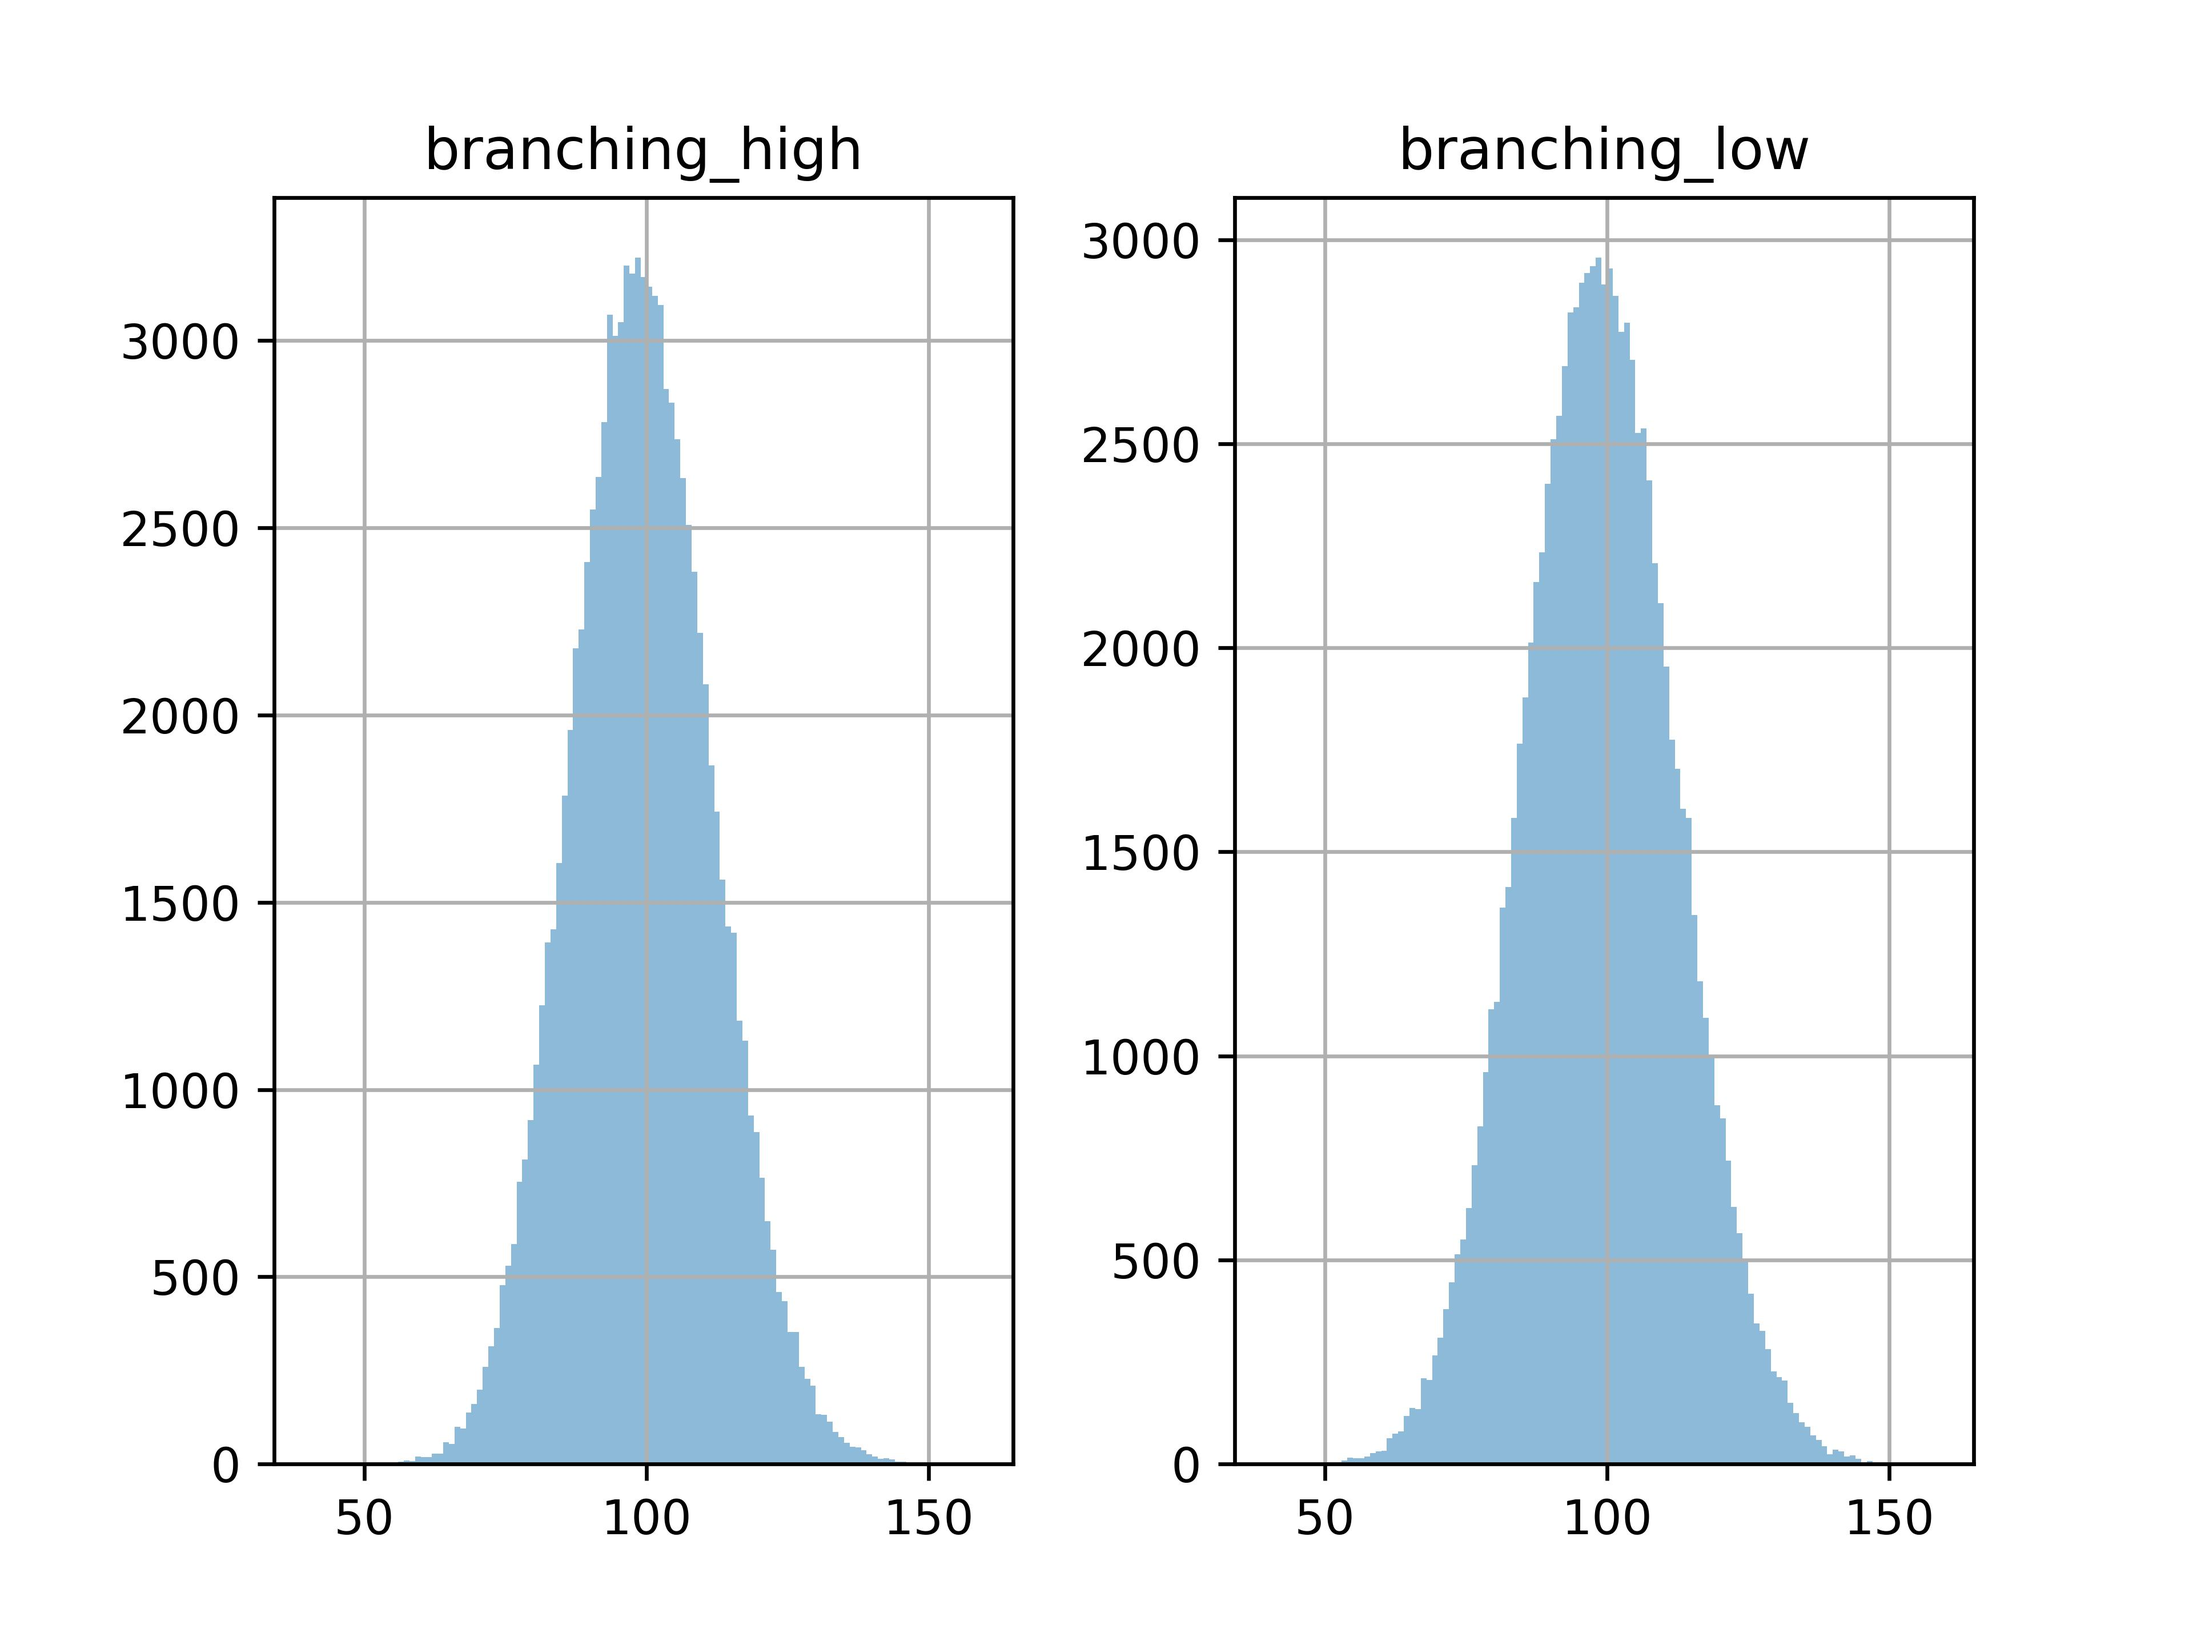
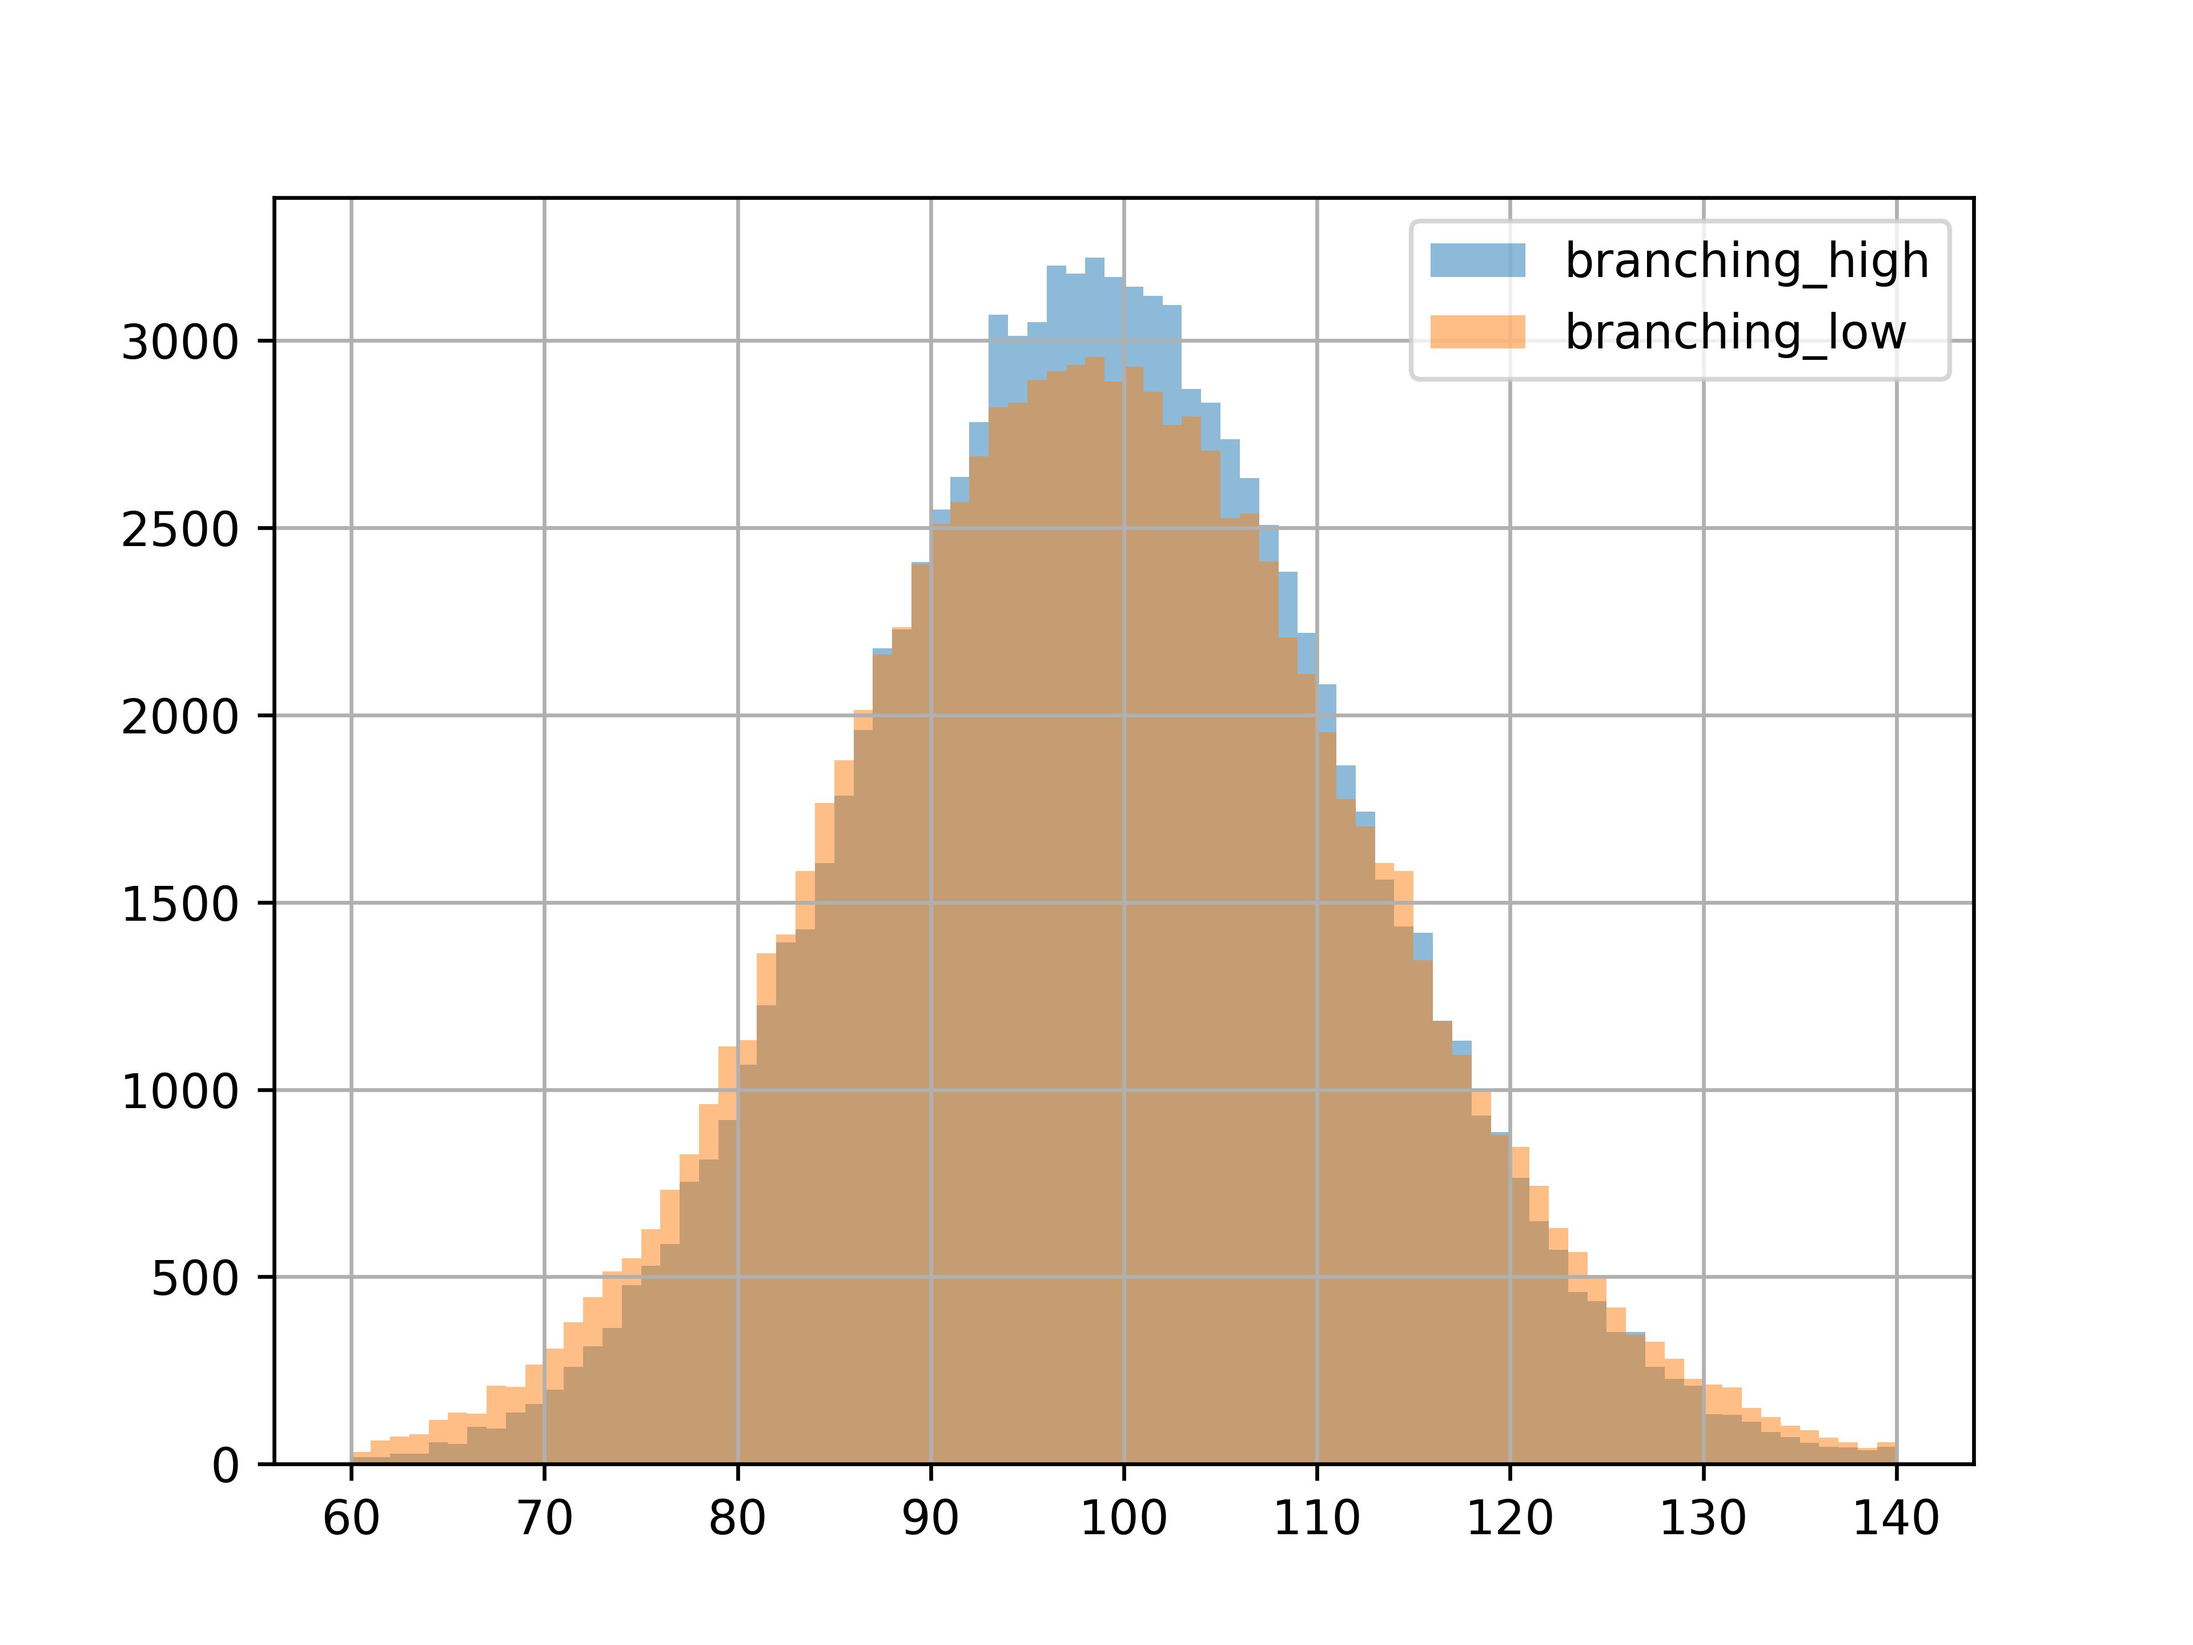
Redid the histograms of european animals to make sense

diff --git a/scripts/plot_histograms.py b/scripts/plot_histograms.py
@@ -14,11 +14,13 @@ if __name__ == '__main__':
     dfs = map(pd.read_parquet, args.samples)
     pops = tuple(map(lambda x: x.population, dfs))
     binrange = range(*args.bins)
-    df = pd.concat(pops, axis=1, keys=map(lambda x: x.stem, args.samples))
+    stems = tuple(v.stem for v in args.samples)
+    df = pd.concat(pops, axis=1, keys=stems)
     alpha = 1./len(pops)
-    ax0 = pops[0].hist(bins=binrange, alpha=alpha)
-    for pop in pops[1:]:
-        pop.hist(ax=ax0, bins=binrange, alpha=alpha)
+    ax0 = pops[0].hist(bins=binrange, alpha=alpha, label=stems[0])
+    for pop, label in zip(pops[1:], stems[1:]):
+        pop.hist(ax=ax0, bins=binrange, alpha=alpha, label=label)
+    plt.legend()
     plt.savefig(args.output, dpi=600)
 
 
